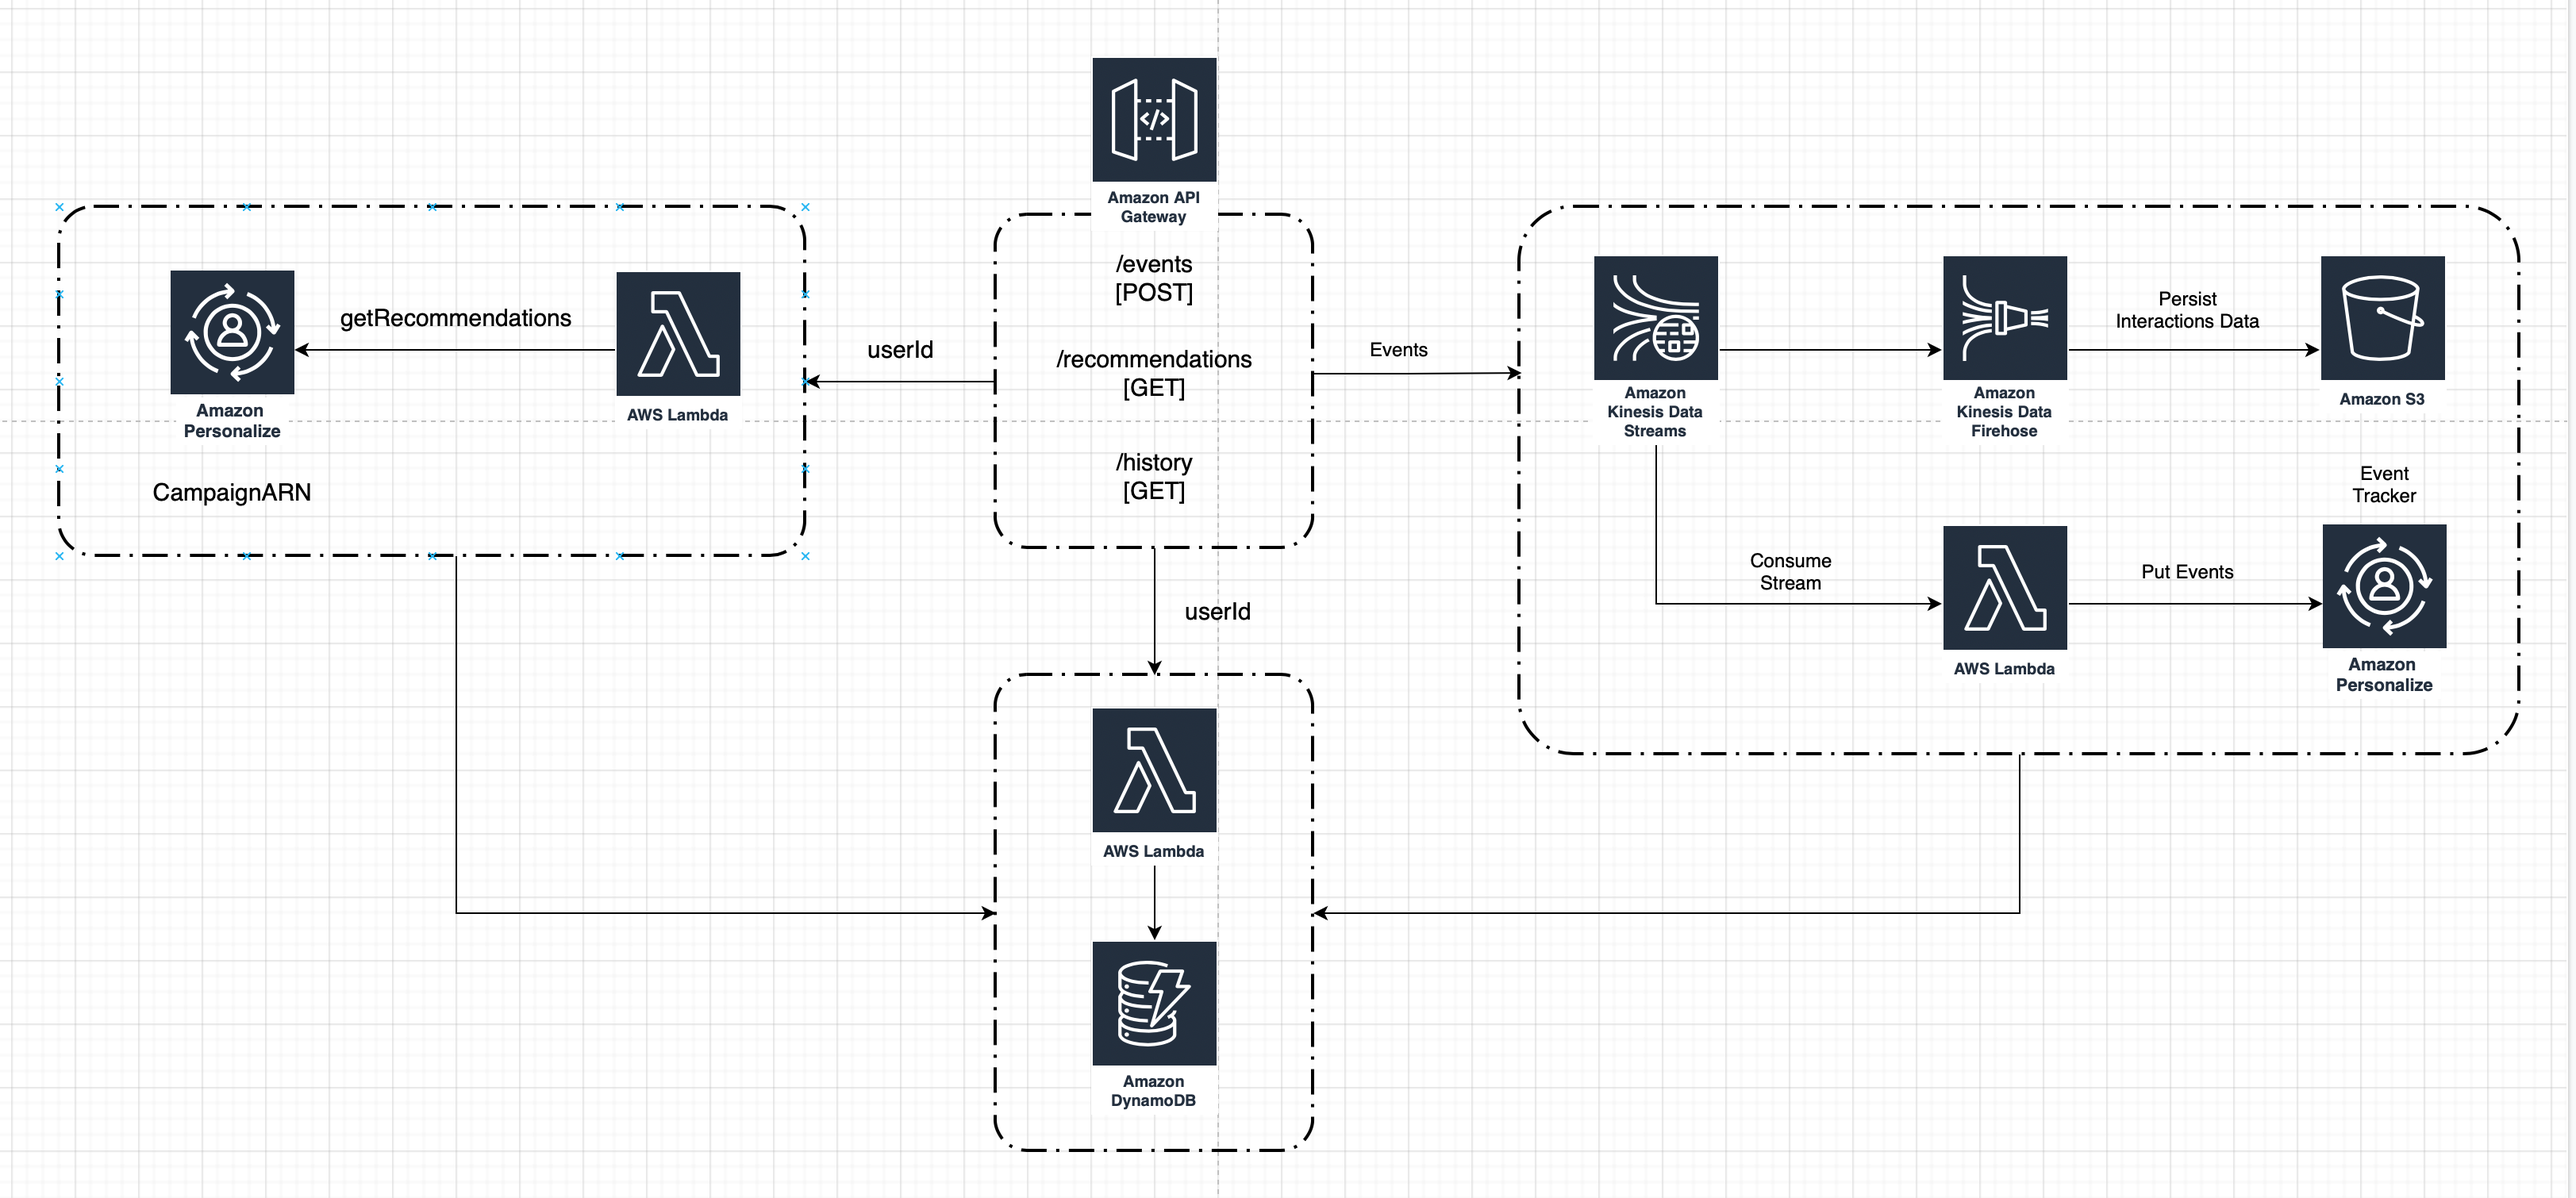
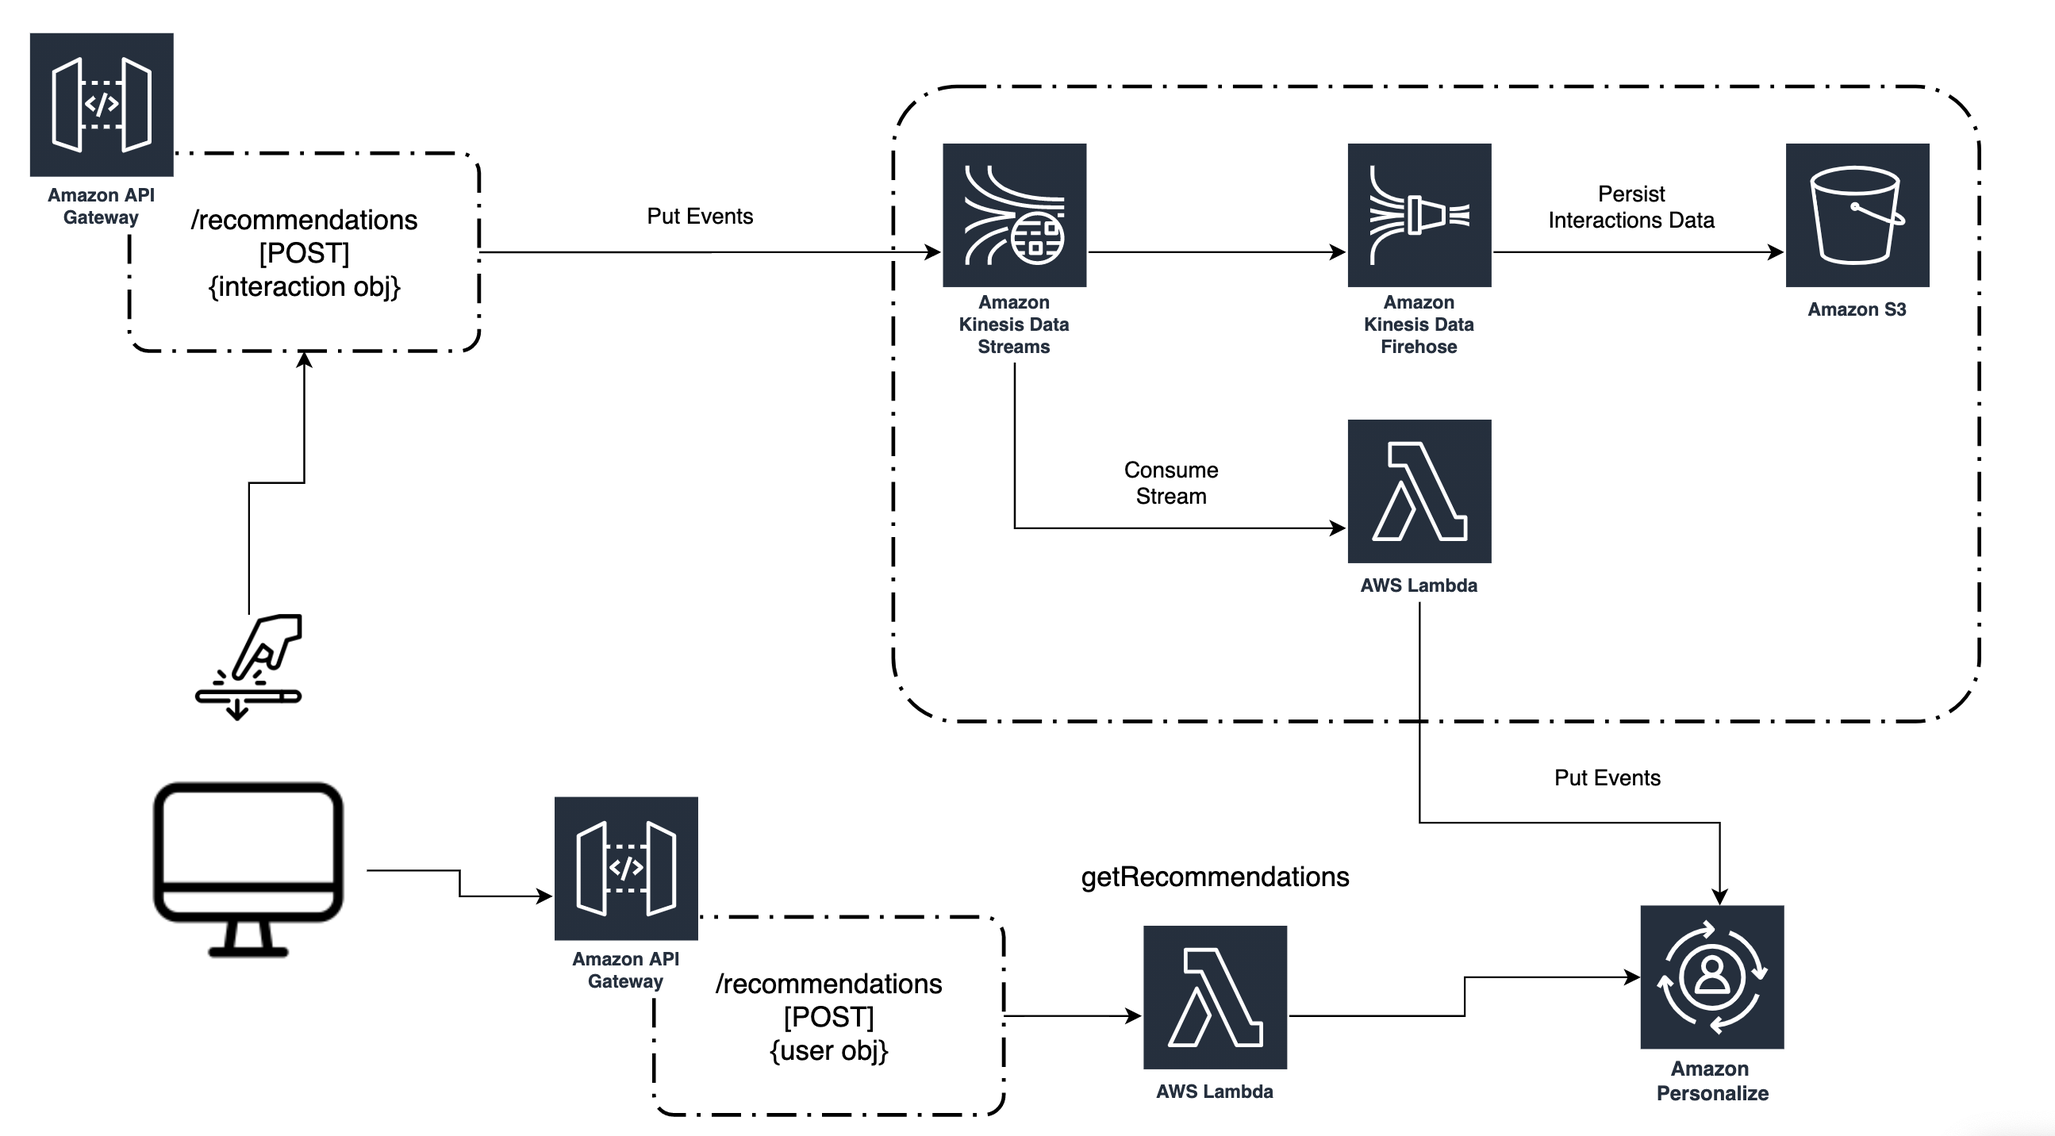
lambda in python with 1GB memory, API key, and no dynamo table

diff --git a/next_steps/operations/streaming_events/README.md b/next_steps/operations/streaming_events/README.md
@@ -41,30 +41,22 @@ In order to deploy the project you will need to run the following commands:
 
 - Navigate to the Amazon CloudFormation [console](https://console.aws.amazon.com/cloudformation/home?region=us-east-1)
 - Select the stack deployed by SAM
-- Navigate to the outputs sections where you will find 3 endpoints:
-    1. Get Recommendations Endpoint
-    2. Get History Endpoint
-    3. Post Events Endopoint
+- Navigate to the outputs sections where you will find 2 endpoints:
+    1. POST getRecommendations Endpoint
+    2. POST Events Endopoint
 
-**GET recommendations example:**
+**POST getRecommendations example:**
 
-*Query Paramater:* userId=USERID
+*Body Parameter:* 
+```
+{
+    "userId":"12345"
+    
+}
+```
 
-*Endpoint:* `https://XXXXXX.execute-api.us-east-1.amazonaws.com/se-personalize-dev/recommendations`
+*Endpoint:* `https://XXXXXX.execute-api.us-east-1.amazonaws.com/dev2/recommendations`
 
-*Constructed Endpoint:*
-
-`https://XXXXXX.execute-api.us-east-1.amazonaws.com/se-personalize-dev/recommendations?userId=USERID`
-
-**GET history example:**
-
-*Query Paramater:* userId=USERID
-
-*Endpoint:* `https://XXXXXX.execute-api.us-east-1.amazonaws.com/se-personalize-dev/history`
-
-*Constructed Endpoint:* 
-
-`https://XXXXXX.execute-api.us-east-1.amazonaws.com/se-personalize-dev/history?userId=USERID`
 
 **POST event example**
 
@@ -88,11 +80,10 @@ For the POST endpoint you need so send an event similar to the following in the 
 
 ## Summary
 
-Now that you have this architecture in your account, you can consume Amazon Personalize recommendations over the API Gateway GET endpoints and stream real time interactions data to the POST endpoint. 
+Now that you have this architecture in your account, you can consume Amazon Personalize recommendations over the API Gateway POST recommendations endpoint and stream real time interactions data to the POST event endpoint. 
 
 There are two additional features to this architecture:
 
-- A Dynamo DB table which includes your user's history. This table contains all the historical recommendations provided by Amazon Personalize to your user, as well as the events that user streamed to the Event Tracker.
 - A S3 bucket containing your events persisted from your Kinesis Stream. You can run analysis on this bucket by using other AWS services such as Glue and Athena. For example you can follow this [blog](https://aws.amazon.com/blogs/big-data/build-and-automate-a-serverless-data-lake-using-an-aws-glue-trigger-for-the-data-catalog-and-etl-jobs/) on how to automate an ETL pipeline.
 
 
